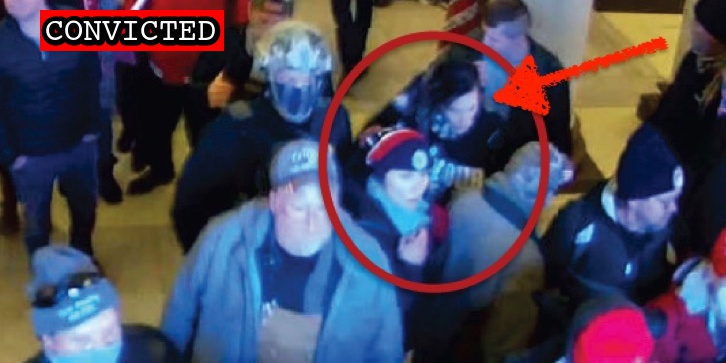
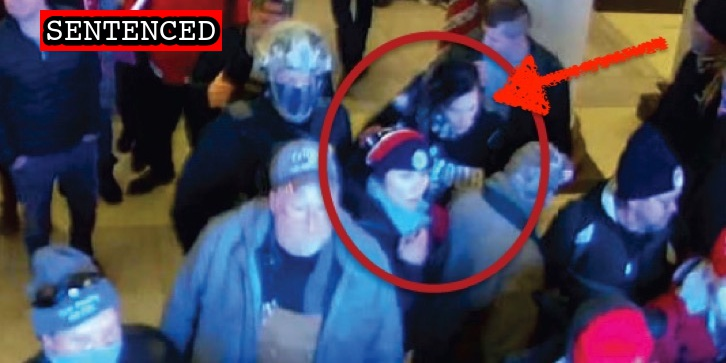
Latest sentences

Changed region(s): [[0.0303, 0.0303, 0.2424, 0.1515], [0.303, 0.0303, 0.3333, 0.1515]]

diff --git a/docs/_suspects/kenneth-rader.md b/docs/_suspects/kenneth-rader.md
@@ -4,17 +4,18 @@ lastName: Rader
 hashtag:
 aka:
 residence: Iowa
-status: Convicted
+status: Sentenced
 date: 2022-01-11
 charged: 2022-01-11
 indicted:
 convicted: 2022-06-07
 acquitted:
-sentenced:
+sentenced: 2022-09-30
 dismissed:
 deceased:
 plea_hearing: 2022-06-07
 trial_date:
+trial_type:
 sentencing: 2022-09-30
 age: 54
 occupation: Viera High School P.E. Teacher
@@ -41,6 +42,9 @@ charges:
     url: https://www.law.cornell.edu/uscode/text/40/5104
     felony: false
 sentence:
+  - 90 days incarceration
+  - 3 years probation
+  - $500 restitution
 ---
 
 - [News Report](https://www.mynews13.com/fl/orlando/news/2021/07/07/kenneth-reda-viera-high-school-teacher-charged-in-capitol-riot-investigation)

diff --git a/docs/_suspects/cara-hentschel.md b/docs/_suspects/cara-hentschel.md
@@ -4,17 +4,18 @@ lastName: Hentschel
 hashtag:
 aka:
 residence: Missouri
-status: Convicted
+status: Sentenced
 date: 2021-09-22
 charged: 2021-09-22
 indicted:
 convicted: 2022-05-18
 acquitted:
-sentenced:
+sentenced: 2022-09-30
 dismissed:
 deceased:
 plea_hearing: 2022-05-18
 trial_date:
+trial_type:
 sentencing: 2022-09-30
 age:
 occupation:
@@ -41,6 +42,10 @@ charges:
     url: https://www.law.cornell.edu/uscode/text/40/5104
     felony: false
 sentence:
+  - 45 days half-way house
+  - 3 years probation
+  - $500 fine
+  - $500 restitution
 ---
 
 - [News Report](https://www.msn.com/en-us/news/us/two-women-arrested-monday-in-springfield-charged-in-jan-6-us-capitol-breach/ar-AAPddMo)

diff --git a/docs/_suspects/mahailya-pryer.md b/docs/_suspects/mahailya-pryer.md
@@ -4,17 +4,18 @@ lastName: Pryer
 hashtag:
 aka:
 residence: Missouri
-status: Convicted
+status: Sentenced
 date: 2021-09-22
 charged: 2021-09-22
 indicted:
 convicted: 2022-05-18
 acquitted:
-sentenced:
+sentenced: 2022-09-30
 dismissed:
 deceased:
 plea_hearing: 2022-05-18
 trial_date:
+trial_type:
 sentencing: 2022-09-30
 age:
 occupation:
@@ -41,6 +42,9 @@ charges:
     url: https://www.law.cornell.edu/uscode/text/40/5104
     felony: false
 sentence:
+  - 45 days of incarceration
+  - 3 years probation
+  - $500 restitution
 ---
 
 - [News Report](https://www.msn.com/en-us/news/us/two-women-arrested-monday-in-springfield-charged-in-jan-6-us-capitol-breach/ar-AAPddMo)

diff --git a/docs/_suspects/adam-jackson.md b/docs/_suspects/adam-jackson.md
@@ -13,7 +13,7 @@ acquitted:
 sentenced:
 dismissed:
 deceased:
-plea_hearing: 2022-09-30
+plea_hearing:
 trial_date:
 sentencing:
 age:

diff --git a/docs/_suspects/samuel-camargo.md b/docs/_suspects/samuel-camargo.md
@@ -12,7 +12,7 @@ convicted:
 sentenced:
 dismissed:
 deceased:
-plea_hearing: 2022-09-23
+plea_hearing:
 sentencing:
 age:
 occupation:
